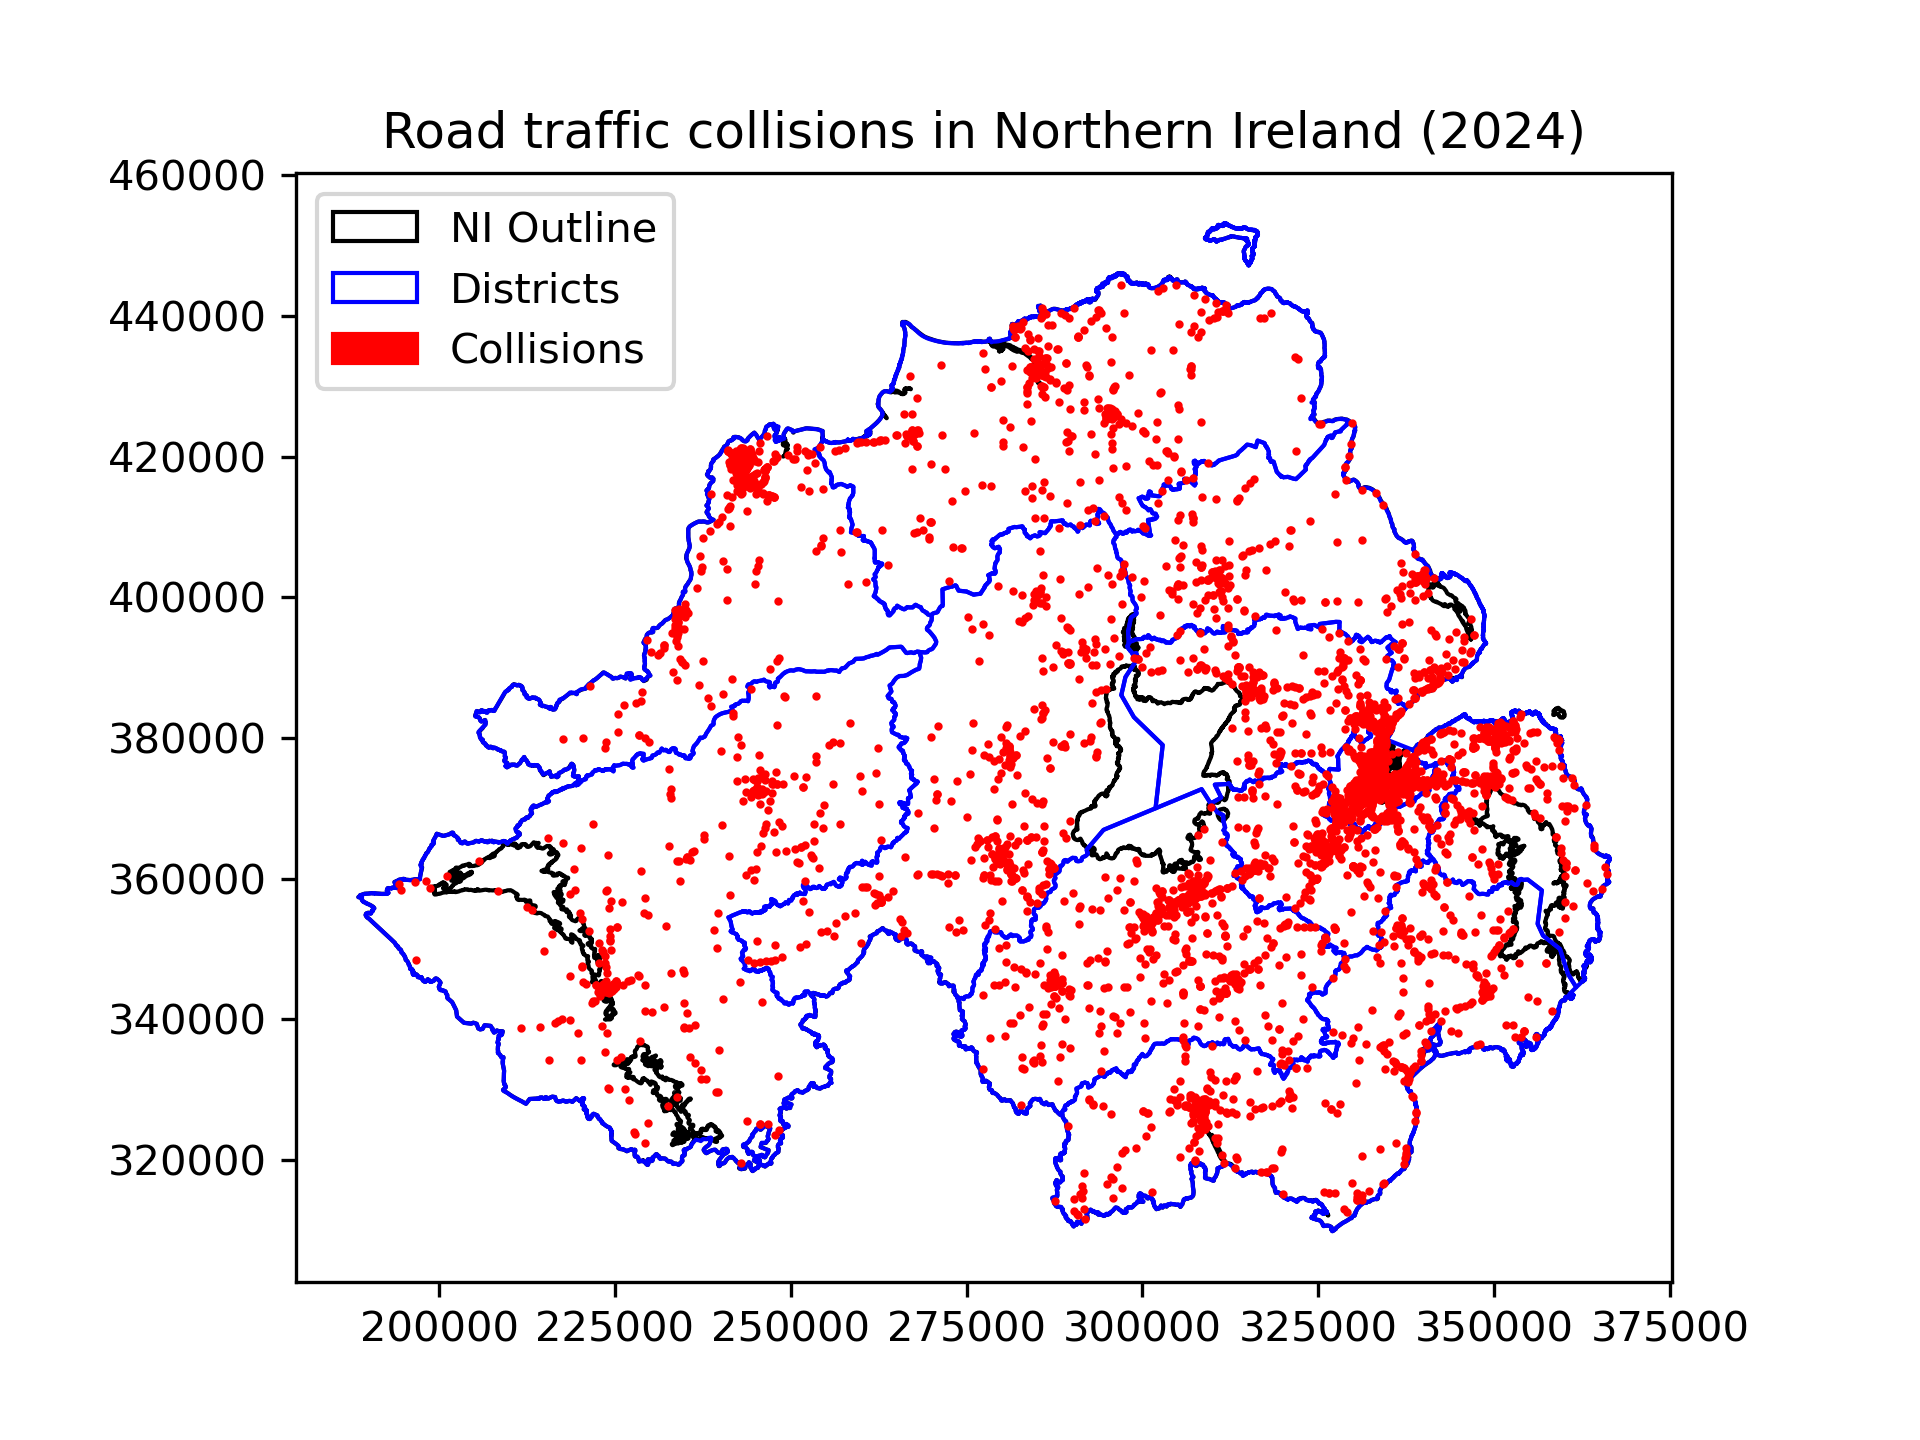
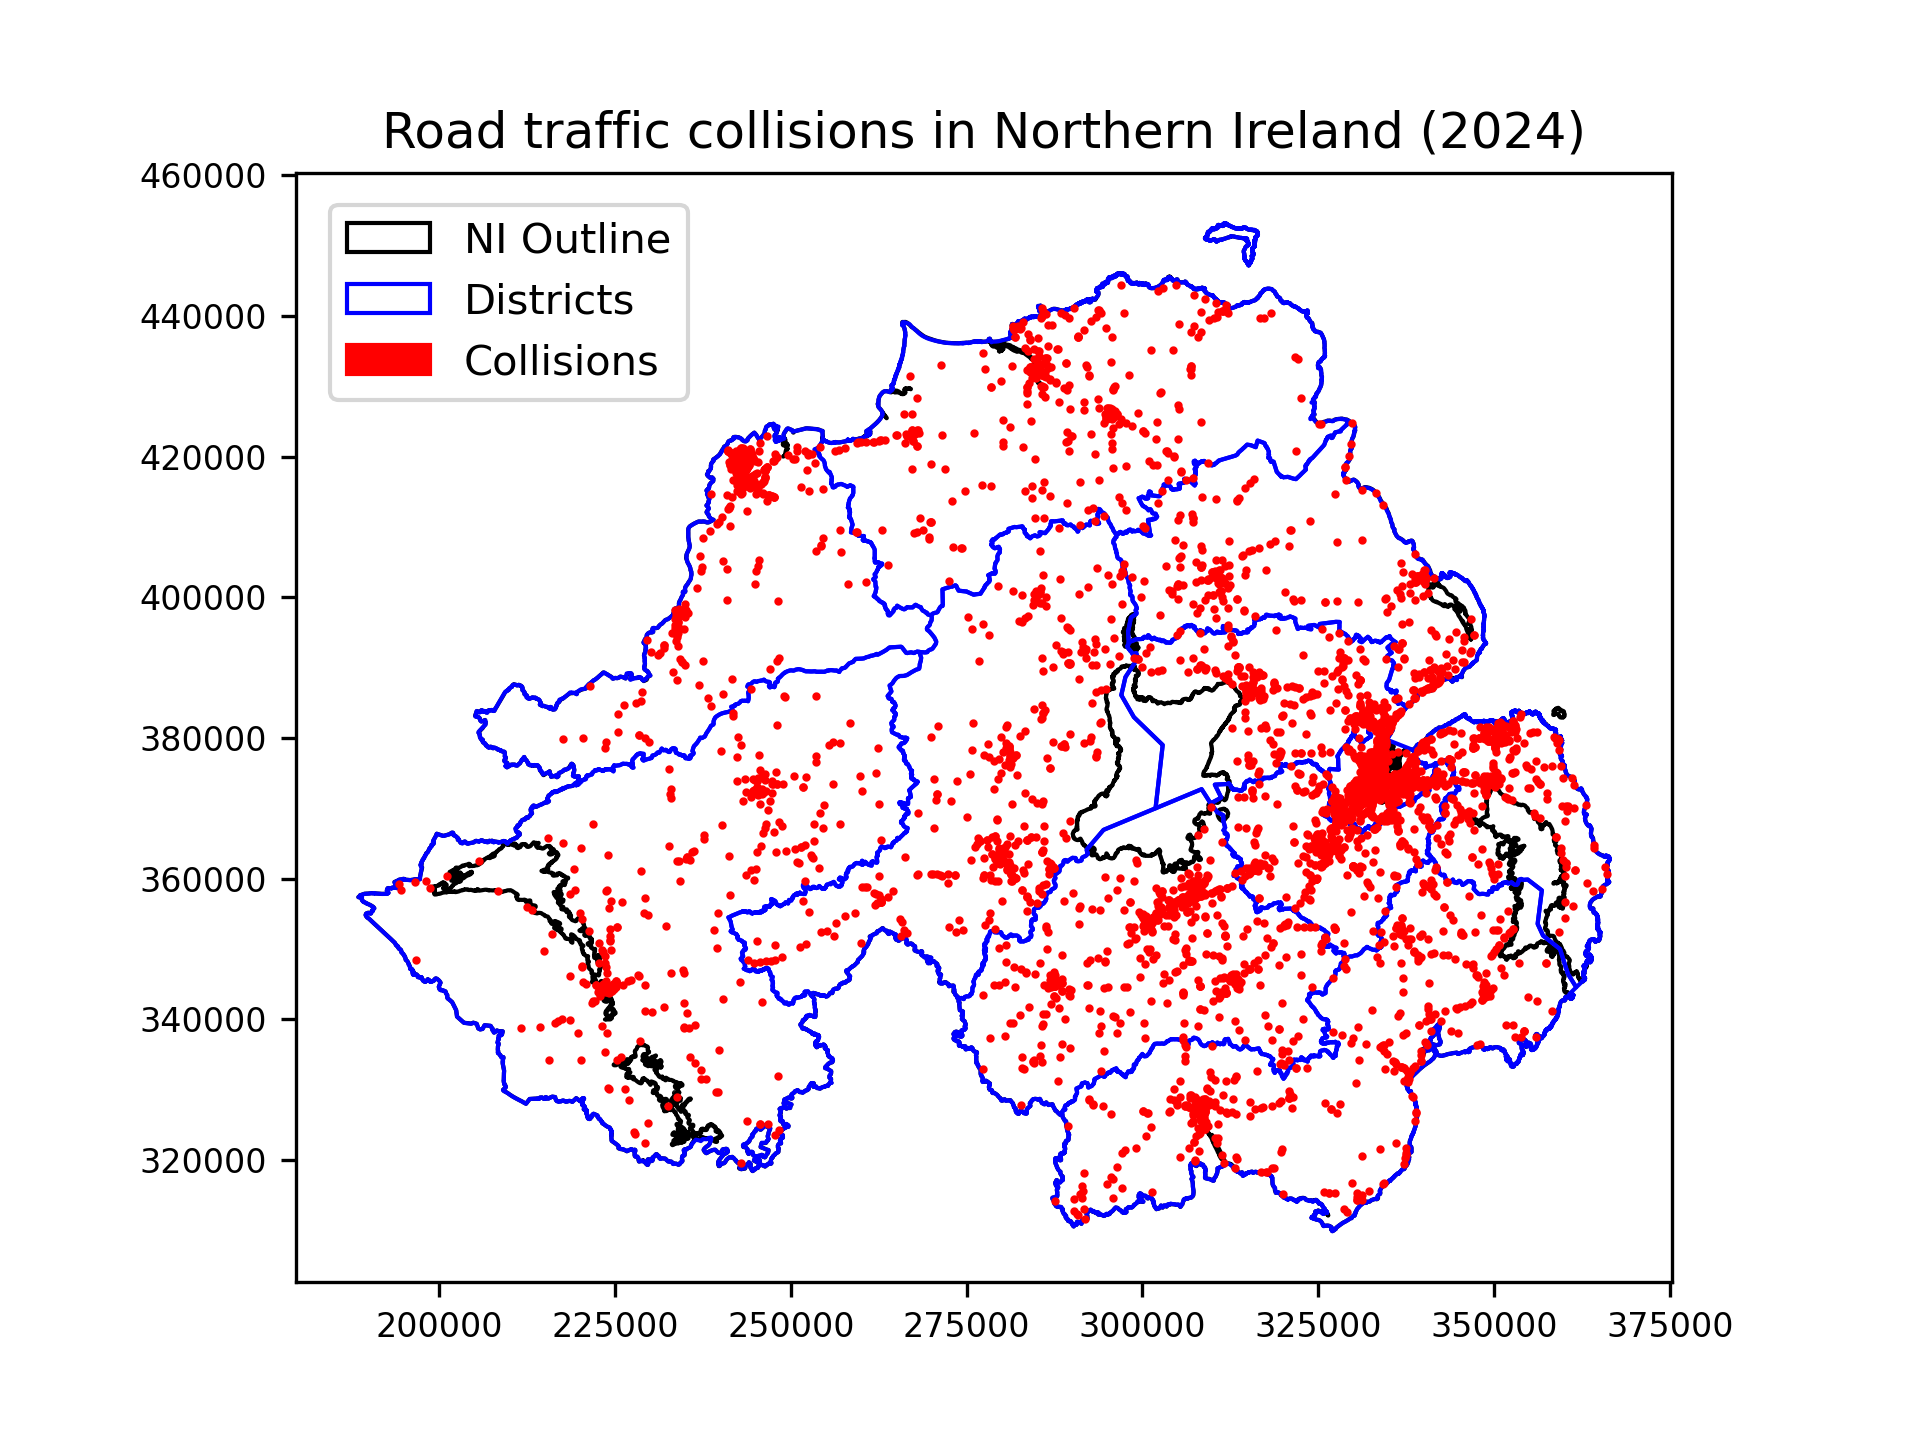
map improvement
make coordinate numbers smaller

diff --git a/ni_collision_analysis.py b/ni_collision_analysis.py
@@ -8,7 +8,7 @@ DATA_DIR = Path("data")
 OUTPUT_DIR = Path("outputs")
 
 # Select year for your analysis
-YEAR = 2023
+YEAR = 2024
 
 # Create function to create file paths for selected year
 def get_year_file_paths(data_dir, year):
@@ -81,6 +81,8 @@ ax.legend(handles=[outline_patch, district_patch, collision_patch],
           loc="upper left",
           bbox_to_anchor=(0.01, 0.99)
 )
+# Make coordinate numbers smaller
+ax.tick_params(axis="both", labelsize=8)
 
 plt.title(f"Road traffic collisions in Northern Ireland ({YEAR})")
 
